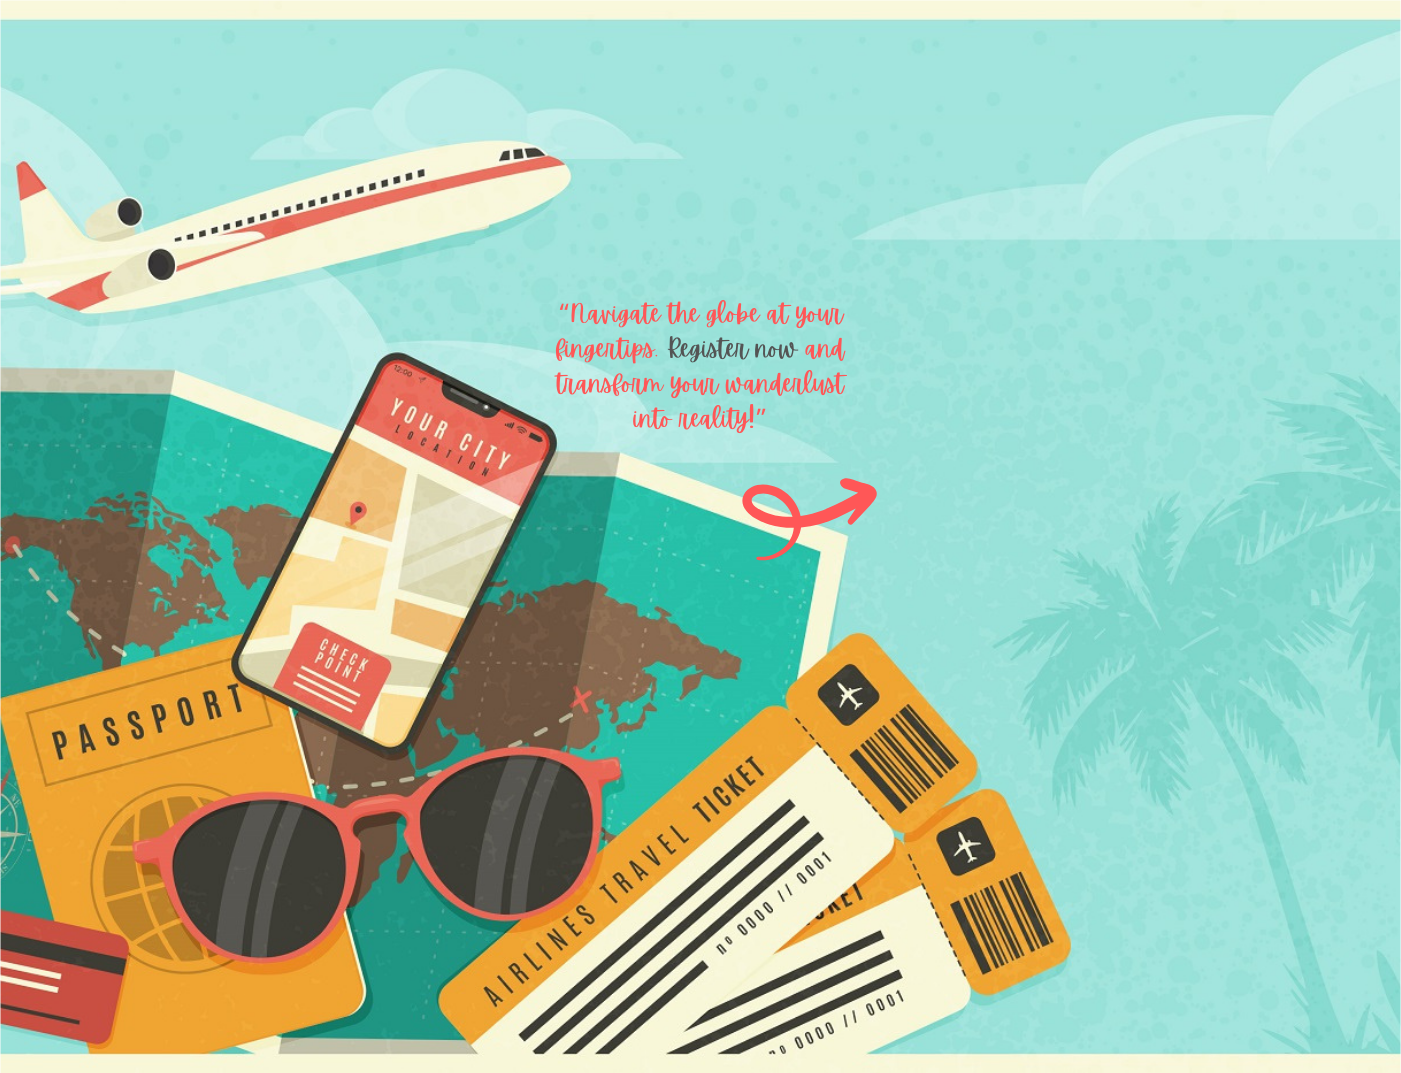
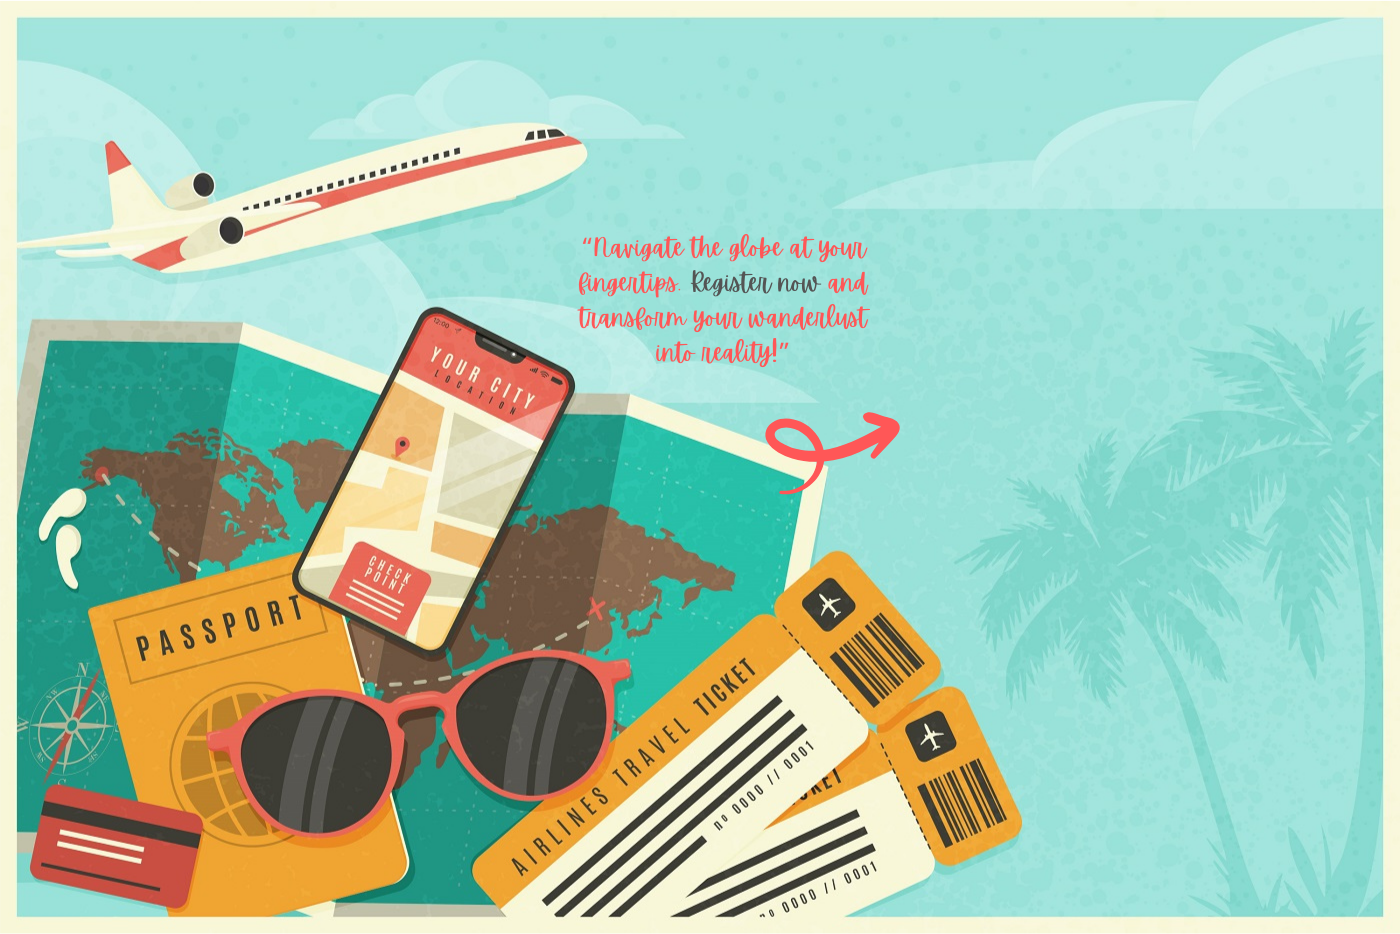
forgotpassword pop up

diff --git a/src/components/Signin.jsx b/src/components/Signin.jsx
@@ -1,6 +1,9 @@
 import React, { useState } from 'react';
 import { Link, useNavigate } from 'react-router-dom';
 import { UserAuth } from '../context/AuthContext';
+import Popup from 'reactjs-popup';
+import 'reactjs-popup/dist/index.css';
+
 
 const Signin = () => {
   const [email, setEmail] = useState('');
@@ -8,6 +11,7 @@ const Signin = () => {
   const [error, setError] = useState('');
   const navigate = useNavigate();
   const { signIn } = UserAuth();
+  const { forgotPassword } = UserAuth();
 
   const handleSubmit = async (e) => {
     e.preventDefault();
@@ -21,9 +25,20 @@ const Signin = () => {
     }
   };
 
+  const handleSubmit1 = async (e) => {
+    e.preventDefault();
+    setError('')
+    try {
+      await forgotPassword(email)
+      navigate('/signin')
+    } catch (e) {
+      setError(e.message)
+      console.log(e.message)
+    }
+  };
   return (
     <div className='signin w-[1400px] mx-auto my-auto '>
-      <div className="Rectangle w-auto h-20 bg-teal-400 ">
+      <div className="Rectangle w-auto h-20 bg-teal-400 bg-gradient-to-r from-teal-500 to-cyan-500 ">
         <div className="signupbtn w-28 h-12 left-[1240px] top-[20px] absolute">
           <div className="Rectangle w-28 h-12 left-0 top-0 absolute rounded-lg shadow bg-zinc-700" />
           <button className="signup left-[30px] top-[13px] absolute text-amber-100  text-base font-bold font-['Nunito']">
@@ -56,14 +71,26 @@ const Signin = () => {
               <label className='py-2 font-medium'>Password</label>
               <input onChange={(e) => setPassword(e.target.value)} className='border p-3 rounded-lg shadow' type='password' />
             </div>
-            <button className='border bg-red-500 hover:bg-teal-500 w-full p-4 my-2 text-white rounded-lg shadow'>
+            <button className='border bg-red-500 hover:bg-teal-500 w-full p-4 my-2 rounded-lg shadow  text-amber-100  text-base font-bold'>
               Sign In
             </button>
-            <button className='border bg-zinc-600 hover:bg-red-900 w-full p-4 my-2 text-white rounded-lg shadow'>
-              <Link to='/ForgotPassword'>
-                Forgot Password
-              </Link>
-            </button>
+            <Popup trigger={<button className='border-zinc-700 bg-zinc-700 hover:bg-teal-600 w-full p-4 my-2 text-amber-100  text-base font-bold rounded-lg shadow' href='(http://0.0.0.0:3000/forgotpassword)'>
+              Forgot Password
+            </button>} position="left bottom">
+              <div className='bg-amber-100 w-auto '>
+                <form onSubmit={handleSubmit1} >
+                  <div className='flex flex-col py-2 bg-amber-100 '>
+                    <label className='py-2 font-medium'>Email Address</label>
+                    <input onChange={(e) => setEmail(e.target.value)} className='border p-3 font-bold rounded-lg shadow' type='email' />
+                  </div>
+                  <button className='border  bg-zinc-700 hover:bg-teal-500 w-full p-4 my-2 text-white font-bold rounded-lg shadow'>
+                    Reset Password
+                  </button>
+                </form>
+
+              </div>
+            </Popup>
+
           </form>
         </div>
         <div class="Rectangle h-20 left-0 top-0  bg-red-400 text-center p-6 text-white">

diff --git a/src/components/Landing.jsx b/src/components/Landing.jsx
@@ -8,8 +8,8 @@ const Landing = () => {
 
 
   return (
-    <div className='landing  mx-auto my-auto bg-teal-400'>
-      <div className="Navbar mx-auto my-0 w-auto h-20 ">
+    <div className='landing w-[1400px] mx-auto my-auto bg-teal-400 bg-gradient-to-r from-teal-500 to-cyan-500'>
+      <div className="Navbar w-[1400px] mx-auto my-0 h-20 ">
         <div className="Rectangle w-200 h-18 bg-white shadow" />
 
         <div className="loginbtn w-28 h-12 left-[1240px] top-[20px] absolute">
@@ -36,10 +36,10 @@ const Landing = () => {
         </button>
         <button className="navbtn2 left-[999px] top-[30px] absolute text-amber-100  text-xl font-semibold font-['Nunito']">About Us</button>
       </div>
-      <div className="Header mx-auto my-auto absolute">
+      <div className="Header mx-auto my-auto top-[95px] absolute">
         <div className="MaskGroup w-50 h-auto left-0 top-0">
 
-          <img className="image w-200 h-200 " src={require("./images/img001.jpg")} alt='pic by freepik' />
+          <img className="image w-[1400px] h-[900px] " src={require("./images/img001.jpg")} alt='pic by freepik' />
         </div>
 
         <div class="Rectangle h-20 left-0 top-0 relative bg-red-400 text-center p-6 text-white">

diff --git a/src/components/Signup.jsx b/src/components/Signup.jsx
@@ -23,7 +23,7 @@ const Signup = () => {
 
   return (
       <div className='signin w-[1400px] mx-auto my-auto '>
-        <div className="Rectangle w-auto h-20 bg-teal-400 ">
+        <div className="Rectangle w-auto h-20 bg-teal-400 bg-gradient-to-r from-teal-500 to-cyan-500  ">
           <div className="signupbtn w-28 h-12 left-[1240px] top-[20px] absolute">
             <div className="Rectangle w-28 h-12 left-0 top-0 absolute rounded-lg shadow bg-red-600" />
             <button className="signup left-[30px] top-[13px] absolute text-amber-100  text-base font-bold font-['Nunito']">
@@ -56,7 +56,7 @@ const Signup = () => {
                 <label className='py-2 font-medium'>Password</label>
                 <input onChange={(e) => setPassword(e.target.value)} className='border p-3 rounded-lg shadow' type='password' />
               </div>
-              <button className=' bg-zinc-500 hover:bg-teal-500 w-full p-4 my-2 text-white rounded-lg shadow'>
+              <button className=' bg-zinc-700 hover:bg-teal-500 w-full p-4 my-2  text-amber-100  text-base font-bold rounded-lg shadow'>
                 Sign Up
               </button>
 

diff --git a/src/components/ForgotPassword.jsx b/src/components/ForgotPassword.jsx
@@ -22,21 +22,11 @@ const ForgotPassword = () => {
   
     return (
       <div className='max-w-[300px] mx-auto my-16 p-4'>
-        <div>
-          <h1 className='text-2xl font-bold py-2'>Reset you password</h1>
-          <p className='py-2'>
-            Don't have an account yet?{' '}
-            <Link to='/signup' className='underline'>
-              Sign up.
-            </Link>
-          </p>
-        </div>
         <form onSubmit={handleSubmit}>
           <div className='flex flex-col py-2'>
             <label className='py-2 font-medium'>Email Address</label>
             <input onChange={(e) => setEmail(e.target.value)} className='border p-3' type='email' />
           </div>
-
           <button className='border border-green-500 bg-green-600 hover:bg-blue-500 w-full p-4 my-2 text-white'>
             Reset Password
           </button>
